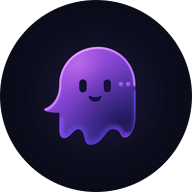
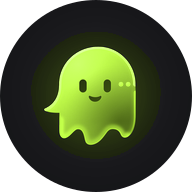
docs: use green mascot and add GitHub social preview

Changed region(s): [[0.1875, 0.1875, 0.8125, 0.8125]]

diff --git a/docs/assets/SOCIAL_PREVIEW.md b/docs/assets/SOCIAL_PREVIEW.md
@@ -1,0 +1,9 @@
+# TarnVPN social preview
+
+`tarnvpn-social-preview.jpg` is the GitHub repository social preview cover. Upload it in Repository Settings -> General -> Social preview.
+
+The green mascot reference is the app's current `app/src/main/res/mipmap-xxxhdpi/ic_launcher.png`. `tarnvpn-icon.png` is an unchanged copy of that app resource for the README.
+
+Generation: built-in imagegen, followed by JPEG export to meet GitHub's image-size limit. No application screenshots are simulated.
+
+Final prompt: Preserve the wide 2:1 TarnVPN cover layout and exact copy. Use the canonical current green app icon as the mascot reference: bright lime/chartreuse ghost, two dark oval eyes, smile and cheek dots. Use matching green accents, white title and an opaque near-black background. Text: "TarnVPN", "Android VPN client", "VLESS / REALITY / XHTTP / olcRTC", "Bring your own server or subscription". No extra text, mockups, watermark, speed claims or security guarantees.
